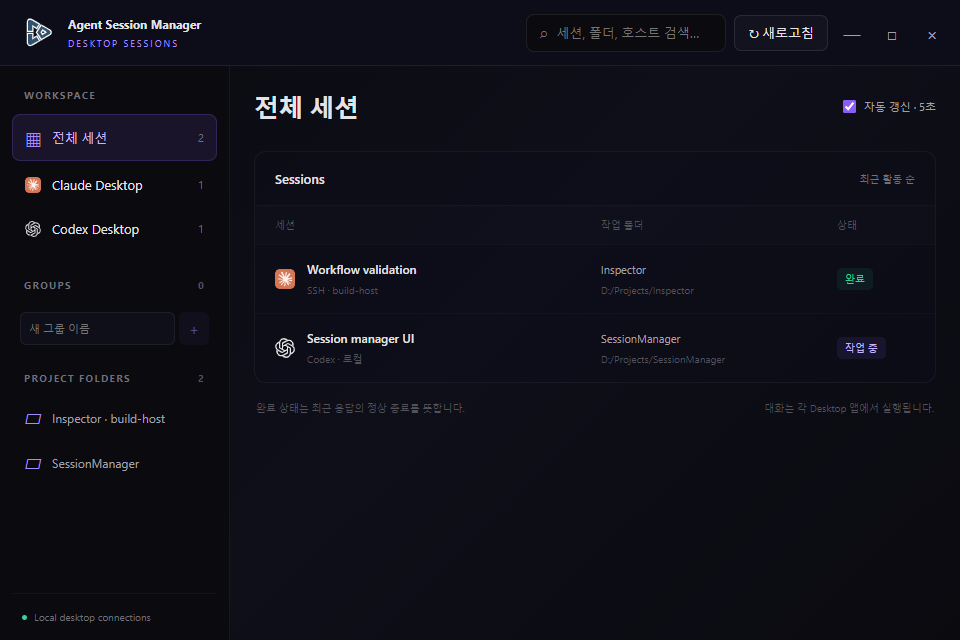
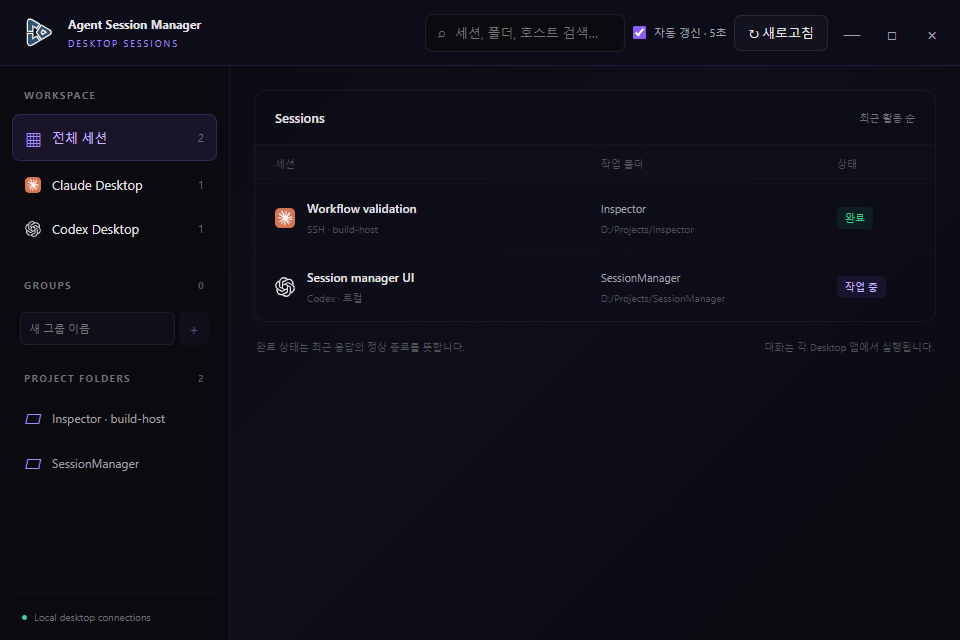
ui: move auto refresh to titlebar and remove workspace heading

diff --git a/frontend/src/DesktopApp.svelte b/frontend/src/DesktopApp.svelte
@@ -106,7 +106,6 @@
     const text = [session.title, session.cwd, session.host, session.id, session.provider, session.environment].join(' ').toLowerCase();
     return query.toLowerCase().split(/\s+/).filter(Boolean).every(word => text.includes(word));
   });
-  $: scopeTitle = selectedGroup?.name ?? (scope === 'all' ? '전체 세션' : scope === 'claude' ? 'Claude Desktop' : scope === 'codex' ? 'Codex Desktop' : folder(paths.find(s => `path:${projectKey(s)}` === scope)?.cwd ?? '프로젝트'));
 
   onMount(() => {
     void refresh();
@@ -121,6 +120,7 @@
     <div class="brand"><img src={logo} alt="Agent Session Manager" /><div><strong>Agent Session Manager</strong><span>DESKTOP SESSIONS</span></div></div>
     <div class="header-tools" style="--wails-draggable:no-drag">
       <label class="search"><span>⌕</span><input aria-label="세션 검색" bind:value={query} placeholder="세션, 폴더, 호스트 검색…" /></label>
+      <label class="auto-refresh"><input type="checkbox" bind:checked={autoRefresh} /> 자동 갱신 · 5초</label>
       <button class="refresh" on:click={refresh} disabled={loading}>{loading ? '조회 중…' : '↻ 새로고침'}</button>
       <button class="window-button" aria-label="최소화" on:click={WindowMinimise}>—</button>
       <button class="window-button" aria-label="최대화" on:click={WindowToggleMaximise}>□</button>
@@ -155,7 +155,6 @@
     </aside>
 
     <main>
-      <div class="main-heading"><h1>{scopeTitle}</h1><label class="auto-refresh"><input type="checkbox" bind:checked={autoRefresh} /> 자동 갱신 · 5초</label></div>
       {#if error}<div role="alert" class="banner error">{error}</div>{/if}
       {#if refreshError}<div role="alert" class="banner error">{refreshError}</div>{/if}
       {#each Object.values(activityErrors).filter(Boolean) as activityError}<div role="alert" class="banner error">{activityError}</div>{/each}
@@ -223,7 +222,7 @@
   .nav-row { display:flex; align-items:center; gap:11px; width:100%; padding:11px 12px; text-align:left; border:1px solid transparent; border-radius:8px; background:none; margin-bottom:3px; } .nav-row:hover { background:#ffffff05; } .nav-row.active { background:rgba(var(--accent-rgb),.12); color:var(--accent-lighter); border-color:rgba(var(--accent-rgb),.22); } .nav-row > span:nth-child(2) { flex:1; min-width:0; overflow:hidden; text-overflow:ellipsis; white-space:nowrap; } .nav-row small { color:#71717a; font-size:11px; } .grid-icon,.folder-icon { width:16px; color:var(--accent-light); font-size:17px; } .path-row { color:#a1a1aa; padding-top:8px; padding-bottom:8px; font-size:12px; }
   .new-group { display:flex; margin:8px 8px 0; gap:4px; } .new-group input { width:100%; border:1px solid #ffffff10; border-radius:6px; background:var(--bg-sunken); padding:8px; font-size:11px; } .new-group button { background:rgba(var(--accent-rgb),.12); border:0; border-radius:6px; color:var(--accent-light); width:30px; flex-shrink:0; } .projects { margin-bottom:24px; } summary { cursor:pointer; } .sidebar-footer { margin-top:auto; padding:16px 10px 4px; border-top:1px solid #ffffff0a; color:#71717a; font-size:10px; display:flex; align-items:center; gap:7px; } .connection-dot { width:5px; height:5px; border-radius:50%; background:#34d399; }
   .group-tools { display:flex; gap:8px; margin-bottom:18px; } .group-tools input { background:var(--bg-raised); border:1px solid #ffffff18; padding:8px 12px; border-radius:7px; } .group-tools button,.warning button { background:#ffffff06; border:1px solid #ffffff18; padding:8px 12px; border-radius:7px; } .warning button { margin:8px 0 0 8px; }
-  main { flex:1; min-width:0; overflow-y:auto; padding:32px 34px 16px; } .main-heading { display:flex; justify-content:space-between; gap:16px; align-items:center; margin-bottom:28px; } h1 { font-size:25px; font-weight:650; letter-spacing:-.5px; margin:0; } .auto-refresh { display:flex; align-items:center; gap:8px; color:#a1a1aa; font-size:11px; white-space:nowrap; } input[type=checkbox] { accent-color:var(--accent); }
+  main { flex:1; min-width:0; overflow-y:auto; padding:32px 34px 16px; } .auto-refresh { display:flex; align-items:center; gap:8px; color:#a1a1aa; font-size:11px; white-space:nowrap; } input[type=checkbox] { accent-color:var(--accent); }
   .session-panel { border:1px solid #ffffff0c; border-radius:12px; overflow:hidden; background:rgba(var(--bg-base-rgb),.42); } .panel-heading { display:flex; justify-content:space-between; align-items:center; padding:18px 20px; border-bottom:1px solid #ffffff0a; } .panel-heading h2 { font-size:13px; font-weight:600; } .panel-heading > span { font-size:10px; color:#71717a; }
   .table-heading,.session-row { display:grid; grid-template-columns:minmax(210px,1.5fr) minmax(130px,1fr) 85px 115px; gap:18px; align-items:center; } .table-heading { padding:12px 20px; color:#52525b; font-size:10px; background:#ffffff02; } .session-row { width:100%; background:none; border:0; border-top:1px solid #ffffff06; text-align:left; padding:16px 20px; } .session-row:hover { background:rgba(var(--accent-rgb),.07); } .session-title { min-width:0; display:flex; align-items:center; gap:12px; } .session-title > span { min-width:0; } .session-title strong { display:block; font-size:12px; font-weight:500; white-space:nowrap; overflow:hidden; text-overflow:ellipsis; } .session-title small,.session-path small { display:block; color:#52525b; font-size:10px; margin-top:6px; white-space:nowrap; overflow:hidden; text-overflow:ellipsis; } .session-path { min-width:0; color:#a1a1aa; font-size:11px; overflow:hidden; text-overflow:ellipsis; white-space:nowrap; } time { font-size:10px; color:#71717a; }
   .badge { display:inline-flex; justify-content:center; width:fit-content; gap:5px; font-size:10px; padding:4px 8px; border-radius:5px; background:#ffffff06; color:#71717a; white-space:nowrap; } .badge.working { background:#8b5cf61a; color:#c4b5fd; } .badge.completed { background:#10b98118; color:#34d399; } .badge.interrupted { background:#f59e0b18; color:#fbbf24; } .badge.idle { color:#a1a1aa; } .badge.error,.badge.refused { color:#fca5a5; background:#ef444418; }

diff --git a/docs/ai/tasks/workspace-list-cleanup/HANDOFF.md b/docs/ai/tasks/workspace-list-cleanup/HANDOFF.md
@@ -5,14 +5,18 @@
 - 스킬: software-change-workflow, verify-triage (테스트 서버 시작 제한 진단)
 - 실제 대상: `D:/repos/intellian/Session_Manager_Desktop`의 Desktop Session Manager.
 - 요청: workspace 선택 시 Sessions 목록 위의 세션 개수 등 불필요한 텍스트 제거.
-- 범위: `frontend/src/DesktopApp.svelte`의 표시 요소와 해당 CSS만 수정.
+- 후속 요청: 목록 위 workspace 이름도 삭제하고 자동 갱신은 맨 위 타이틀바로 이동.
+- 범위: `frontend/src/DesktopApp.svelte`의 표시 요소·CSS, 제거한 제목을 참조하던 기존 브라우저 테스트의 확인 대상.
 
 ## 완료
 
 - 표시 중인 세션·Claude·Codex 개수 카드 3개를 제거했다.
 - YOUR AGENT WORKSPACE와 Desktop 앱에서 이어가라는 안내를 제거했다.
 - Sessions 제목 옆의 중복 개수 배지를 제거했다.
-- 현재 선택한 화면 제목, 자동 갱신, 검색, 목록, 그룹 기능 및 오류 표시는 유지했다.
+- 목록 위 현재 선택한 workspace 이름과 이를 위한 변수·CSS를 제거했다.
+- 자동 갱신 체크박스를 타이틀바의 검색창과 새로고침 버튼 사이로 이동했다. 기존 드래그 제외 영역에 배치했다.
+- 검색, 목록, 그룹 기능, 자동 갱신 동작 및 오류 표시는 유지했다.
+- 기존 그룹 이름 변경 테스트는 제거한 제목 대신 선택된 사이드바 그룹 이름으로 검증한다.
 - 더 이상 사용하지 않는 카드·안내 문구 CSS를 제거했다.
 - 이전 폴더 `Session_Manager`에 잘못 적용했던 GUI/README 변경과 완료 기록을 되돌렸다. 해당 폴더에 `AGENTS.md`를 추가해 Desktop 앱의 실제 경로와 이전 Tk GUI를 구분했다.
 
@@ -24,6 +28,12 @@
 - 최초 브라우저 테스트는 개발 서버 준비 전 30초 제한으로 종료했다. 서버를 별도로 시작하고 무시되는 `frontend/test-results/workspace-cleanup.config.mjs`에서 기존 테스트 설정의 webServer만 제외해 동일 테스트 9개를 실행했다. 제품 소스와 영구 설정을 바꿔 타임아웃을 우회하지 않았다.
 - `verification/desktop-ui-preview.png`와 `desktop-ui-minimum.png`를 갱신하고 기본 크기 화면을 시각적으로 확인했다. 모의 데이터 기반 브라우저 검증이다.
 - `git diff --check`: 통과.
+
+## 후속 요청 검증
+
+- Desktop 브라우저 테스트: 기존 설정으로 9개 통과. 자동 갱신 해제 후 상태 만료, 검색·필터·그룹 변경도 통과했다.
+- `scripts/build-desktop.ps1`: 통과. 바탕화면 바로가기가 가리키는 실행 파일을 갱신했다.
+- 1380×880 및 최소 크기 960×640의 새 화면을 시각적으로 확인했다. workspace 제목 없이 Sessions 목록이 표시되고, 타이틀바 자동 갱신·검색·창 버튼이 겹치지 않는다.
 
 ## 적용
 
